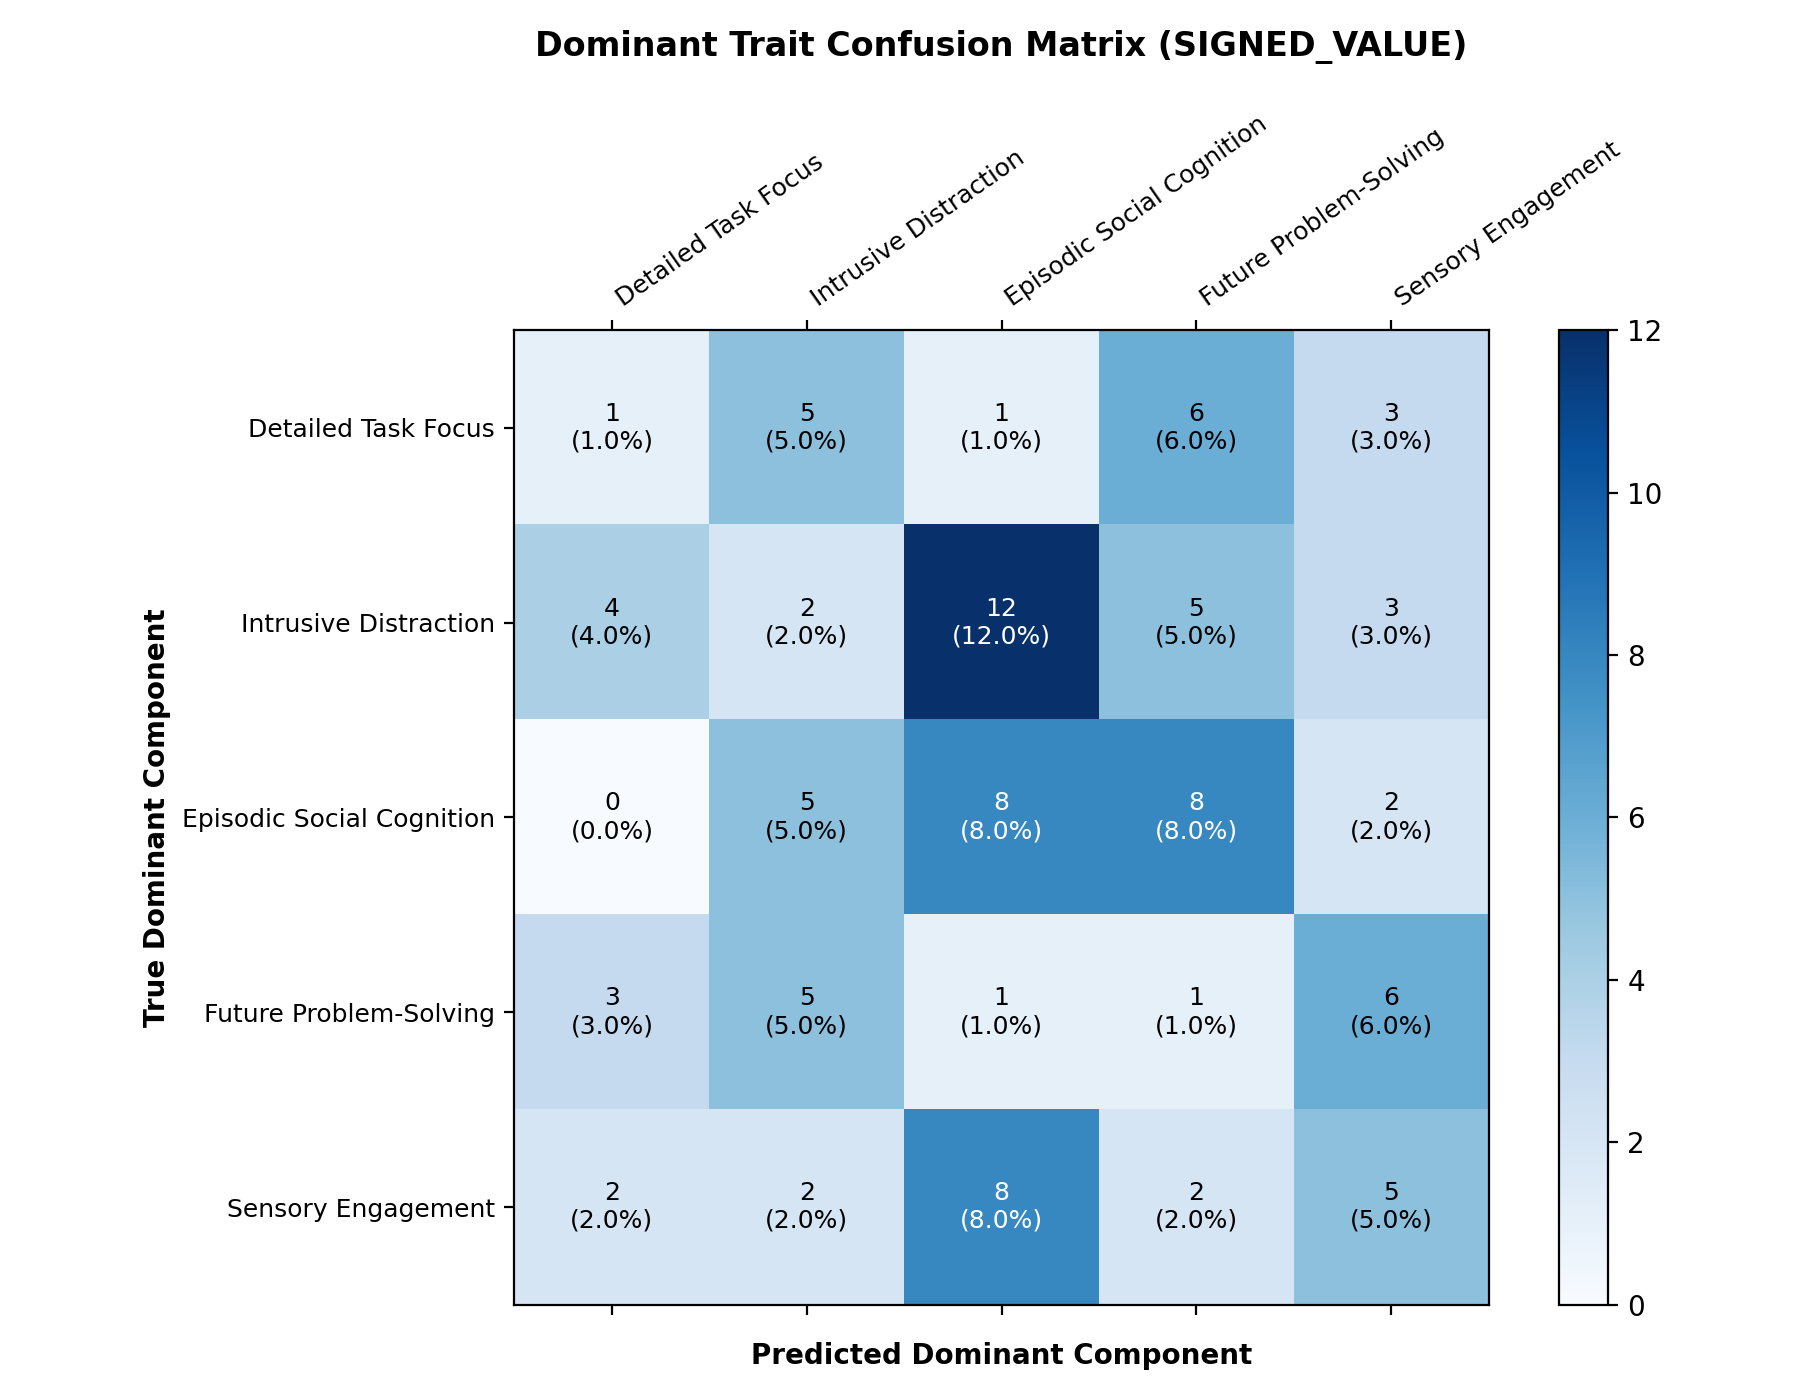
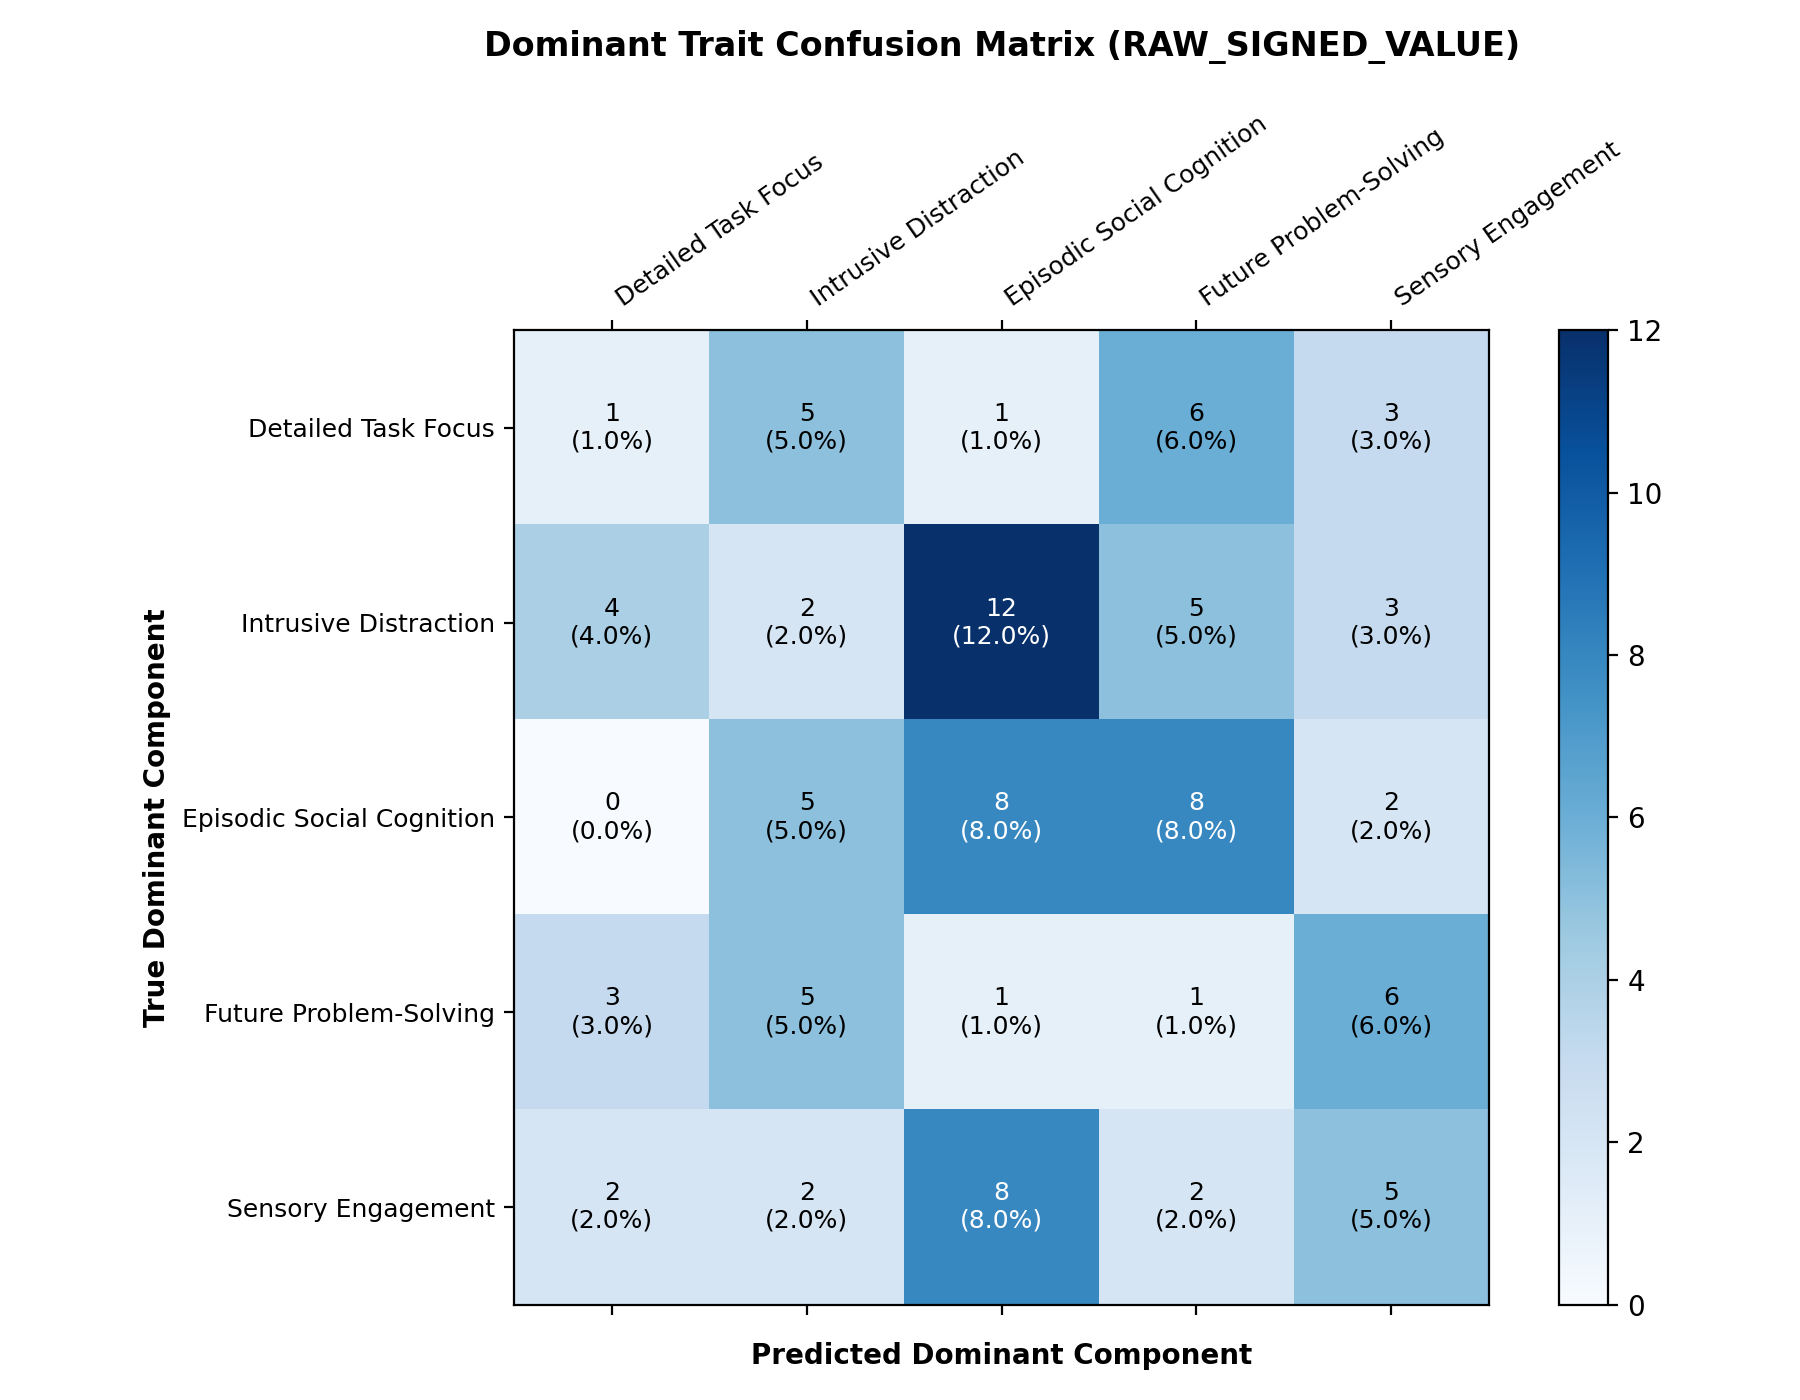
add z-score standardization for dominant trait classification

Changed region(s): [[0.28, 0.0, 0.84, 0.0614]]

diff --git a/evaluate.py b/evaluate.py
@@ -109,20 +109,33 @@ def compute_dominant_component_metrics(
     y_pred: np.ndarray,
     pca_columns: list,
     use_abs: bool = False,
+    use_standardized: bool = True,
 ) -> Dict[str, Any]:
-    """Computes Top-1 & Top-2 classification accuracy, confusion matrix, and per-trait F1 metrics for dominant PCA trait identification."""
+    """Computes Top-1 & Top-2 classification accuracy, confusion matrix, and per-trait F1 metrics for dominant PCA trait identification.
+    
+    If use_standardized is True, applies column-wise Z-score scaling (z = (y_pred - mu) / sigma) to remove magnitude bias prior to argmax.
+    """
     n = y_true.shape[0]
     num_components = len(pca_columns)
     if n == 0:
         return {}
 
+    # Apply column-wise Z-score standardization if requested
+    if use_standardized:
+        mean_pred = np.mean(y_pred, axis=0, keepdims=True)
+        std_pred = np.std(y_pred, axis=0, keepdims=True)
+        std_pred = np.where(std_pred == 0, 1e-8, std_pred)
+        y_pred_eval = (y_pred - mean_pred) / std_pred
+    else:
+        y_pred_eval = y_pred
+
     # Extract dominant component index for ground truth and predictions
     if use_abs:
         y_true_dom = np.argmax(np.abs(y_true), axis=1)
-        y_pred_dom = np.argmax(np.abs(y_pred), axis=1)
+        y_pred_dom = np.argmax(np.abs(y_pred_eval), axis=1)
     else:
         y_true_dom = np.argmax(y_true, axis=1)
-        y_pred_dom = np.argmax(y_pred, axis=1)
+        y_pred_dom = np.argmax(y_pred_eval, axis=1)
 
     # Top-1 Dominant Accuracy
     top1_correct = np.sum(y_true_dom == y_pred_dom)
@@ -132,9 +145,9 @@ def compute_dominant_component_metrics(
     top2_correct = 0
     for i in range(n):
         if use_abs:
-            top2_indices = np.argsort(-np.abs(y_pred[i]))[:2]
+            top2_indices = np.argsort(-np.abs(y_pred_eval[i]))[:2]
         else:
-            top2_indices = np.argsort(-y_pred[i])[:2]
+            top2_indices = np.argsort(-y_pred_eval[i])[:2]
         if y_true_dom[i] in top2_indices:
             top2_correct += 1
     top2_acc = float(top2_correct / n)
@@ -166,8 +179,11 @@ def compute_dominant_component_metrics(
     random_baseline_top1 = 1.0 / num_components
     random_baseline_top2 = min(1.0, 2.0 / num_components)
 
+    criterion_name = ("standardized_" if use_standardized else "raw_") + ("absolute_value" if use_abs else "signed_value")
+
     return {
-        "dominant_criterion": "absolute_value" if use_abs else "signed_value",
+        "dominant_criterion": criterion_name,
+        "use_standardized_argmax": use_standardized,
         "top1_dominant_accuracy": top1_acc,
         "top2_dominant_accuracy": top2_acc,
         "random_baseline_top1": random_baseline_top1,
@@ -322,6 +338,8 @@ def main():
     parser.add_argument("--config", type=str, default="config.yaml", help="Path to YAML configuration file")
     parser.add_argument("--test_csv", type=str, default=None, help="Path to held-out test CSV dataset")
     parser.add_argument("--use_abs_dominant", action="store_true", help="Use absolute value magnitude to define dominant PCA component")
+    parser.add_argument("--use_standardized_dominant", dest="use_standardized_dominant", action="store_true", default=None, help="Force Z-score standardization before dominant PCA argmax")
+    parser.add_argument("--no_standardized_dominant", dest="use_standardized_dominant", action="store_false", default=None, help="Disable Z-score standardization before dominant PCA argmax")
     parser.add_argument("--generate_synthetic", action="store_true", help="Generate synthetic CSV dataset if test file is missing")
     args = parser.parse_args()
 
@@ -335,6 +353,12 @@ def main():
     config = load_config(config_path)
     test_csv_path = args.test_csv or config.dataset.inference_csv_path
     checkpoint_path = config.paths.model_checkpoint
+
+    # Resolve Z-score standardization toggle from CLI override or config
+    if args.use_standardized_dominant is not None:
+        use_standardized_dominant = args.use_standardized_dominant
+    else:
+        use_standardized_dominant = config.evaluation.use_standardized_dominant_argmax
 
     if not os.path.exists(checkpoint_path):
         print(f"[Error] Trained model checkpoint not found at '{checkpoint_path}'. Run `python train.py` first.")
@@ -415,6 +439,7 @@ def main():
         y_pred=predicted_pca_matrix,
         pca_columns=config.dataset.pca_columns,
         use_abs=args.use_abs_dominant,
+        use_standardized=use_standardized_dominant,
     )
 
     # E. Shared Metric Space Alignment Quality

diff --git a/src/config.py b/src/config.py
@@ -73,6 +73,11 @@ class OptunaConfig:
 
 
 @dataclass
+class EvaluationConfig:
+    use_standardized_dominant_argmax: bool = True
+
+
+@dataclass
 class Config:
     dataset: DatasetConfig = field(default_factory=DatasetConfig)
     text_encoder: TextEncoderConfig = field(default_factory=TextEncoderConfig)
@@ -80,6 +85,7 @@ class Config:
     training: TrainingConfig = field(default_factory=TrainingConfig)
     paths: PathsConfig = field(default_factory=PathsConfig)
     optuna: OptunaConfig = field(default_factory=OptunaConfig)
+    evaluation: EvaluationConfig = field(default_factory=EvaluationConfig)
 
     def validate(self) -> None:
         """Validates configuration parameters and raises descriptive ValueError if invalid."""
@@ -104,6 +110,7 @@ class Config:
         train_cfg = TrainingConfig(**data.get("training", {}))
         paths_cfg = PathsConfig(**data.get("paths", {}))
         optuna_cfg = OptunaConfig(**data.get("optuna", {}))
+        eval_cfg = EvaluationConfig(**data.get("evaluation", {}))
         cfg = cls(
             dataset=dataset_cfg,
             text_encoder=text_cfg,
@@ -111,6 +118,7 @@ class Config:
             training=train_cfg,
             paths=paths_cfg,
             optuna=optuna_cfg,
+            evaluation=eval_cfg,
         )
         cfg.validate()
         return cfg
@@ -156,6 +164,9 @@ class Config:
                 "timeout": self.optuna.timeout,
                 "best_config_path": self.optuna.best_config_path,
                 "archive_dir": self.optuna.archive_dir,
+            },
+            "evaluation": {
+                "use_standardized_dominant_argmax": self.evaluation.use_standardized_dominant_argmax,
             },
         }
 
